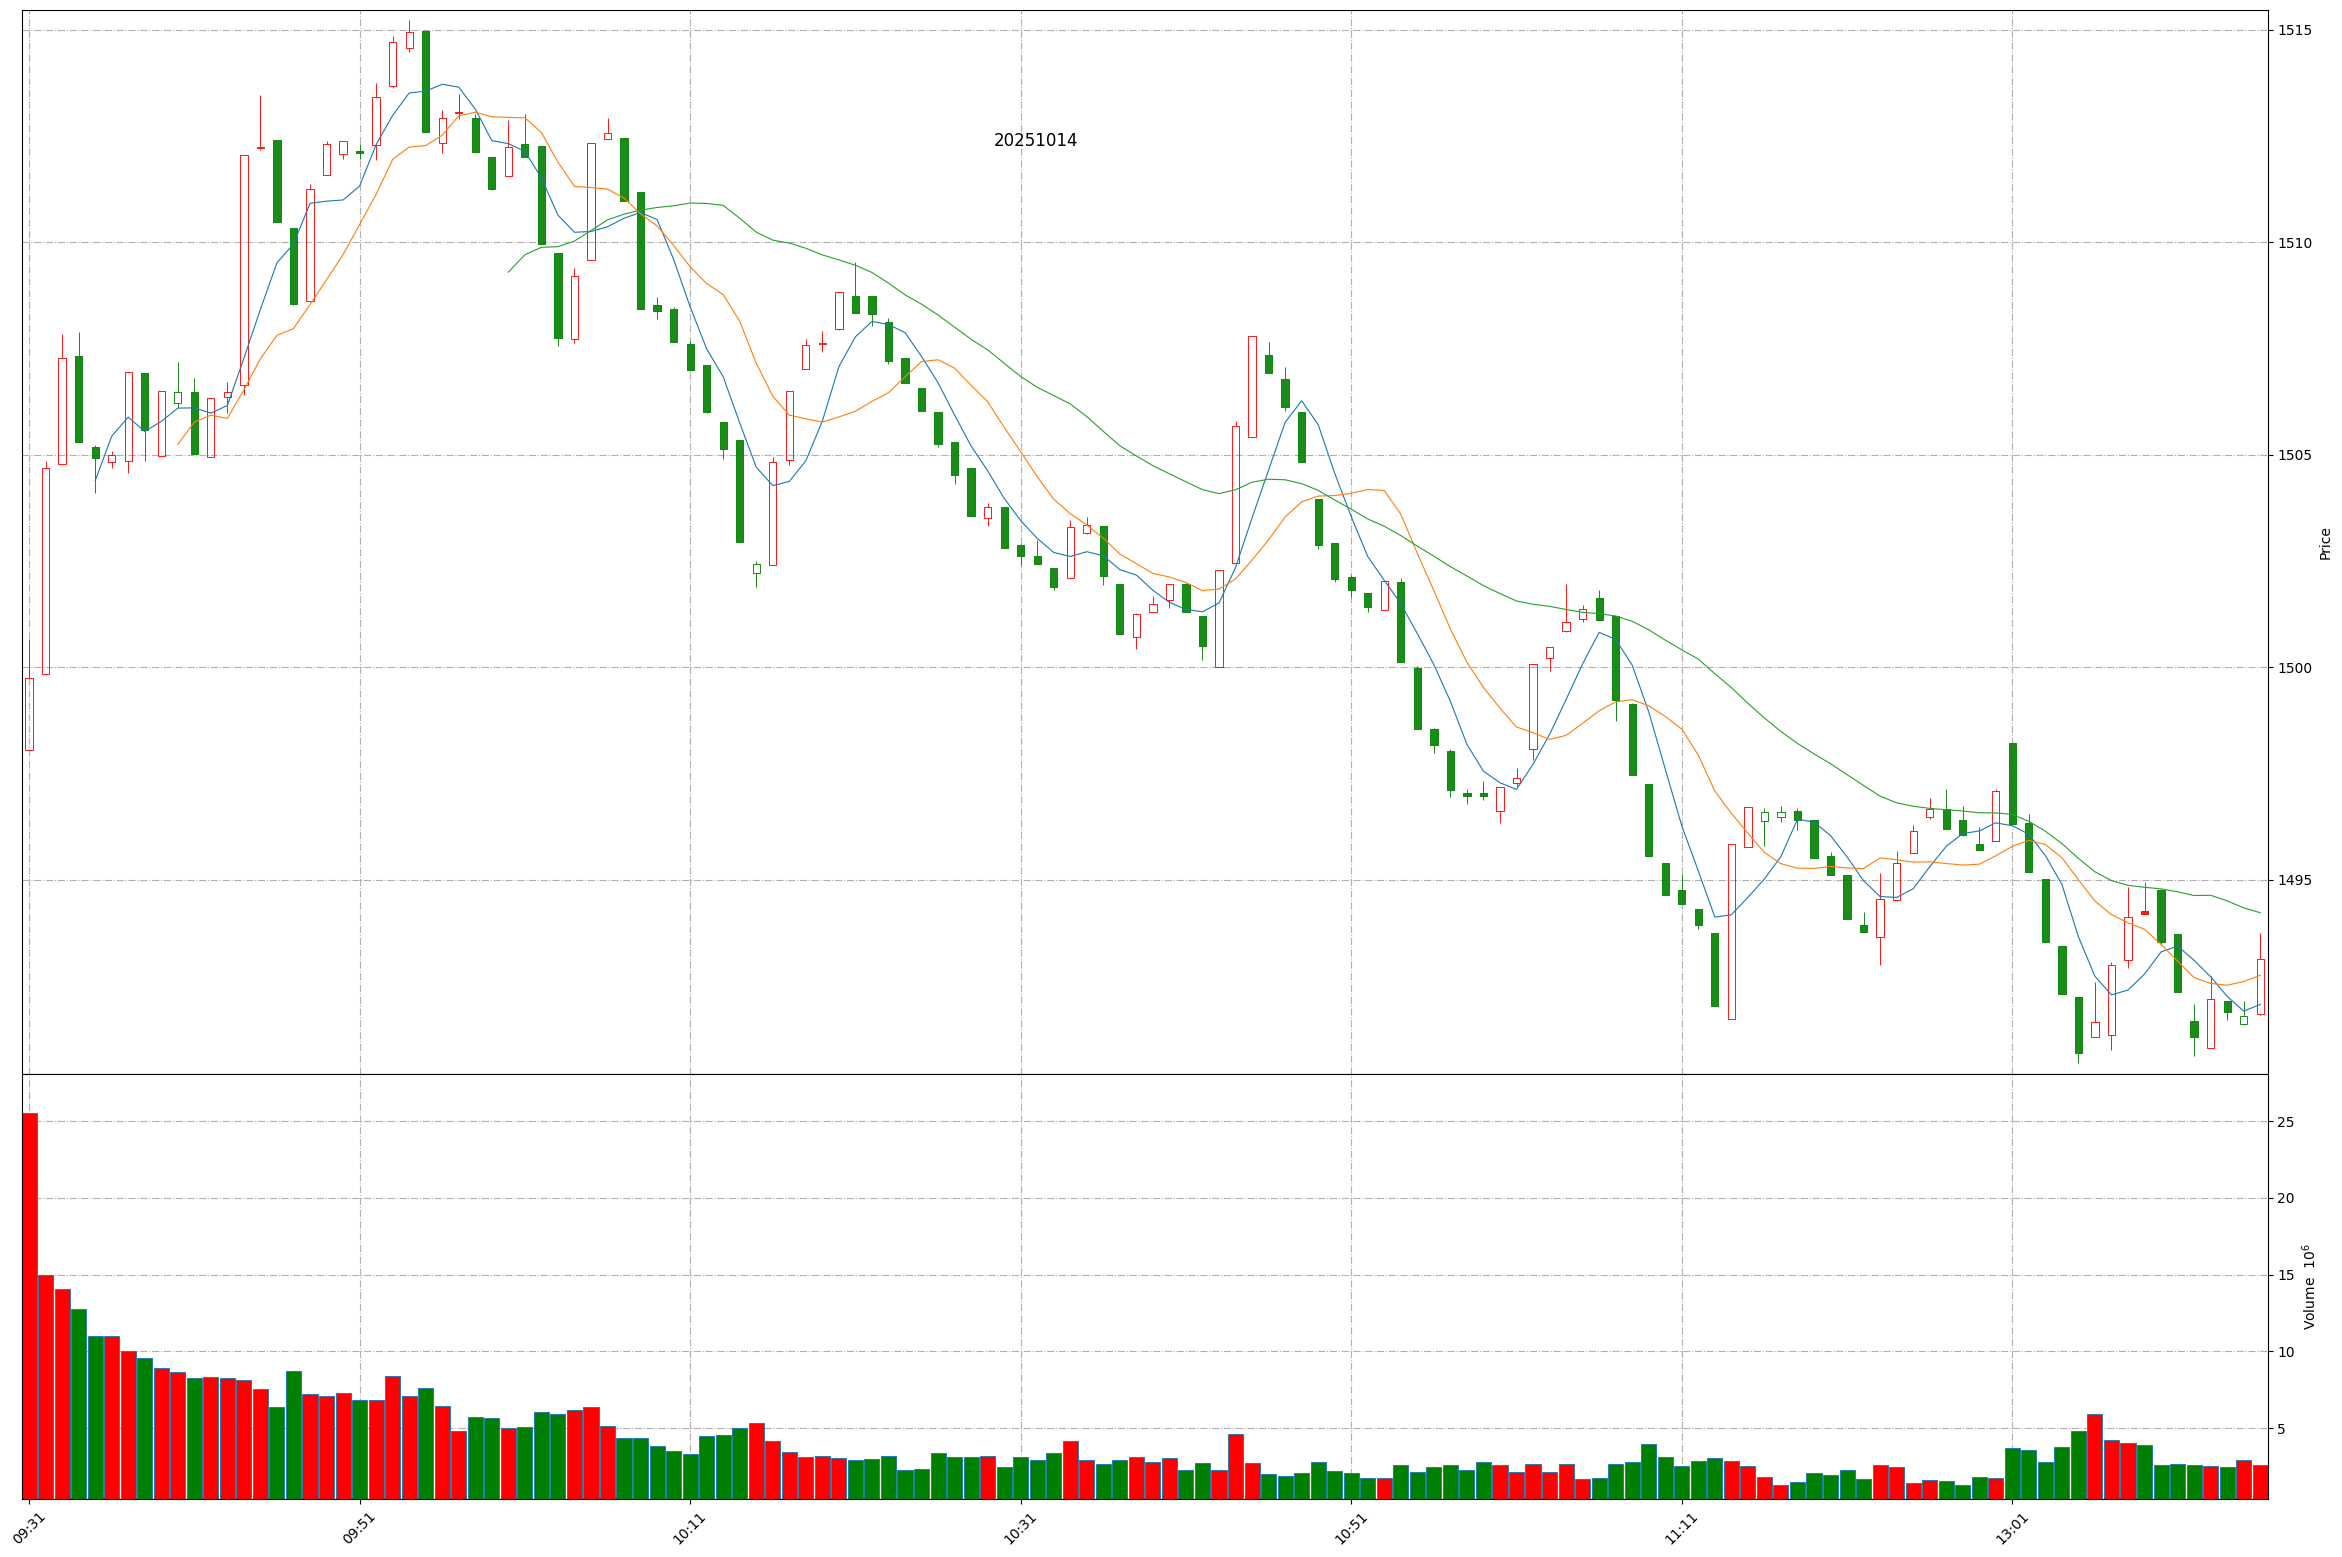
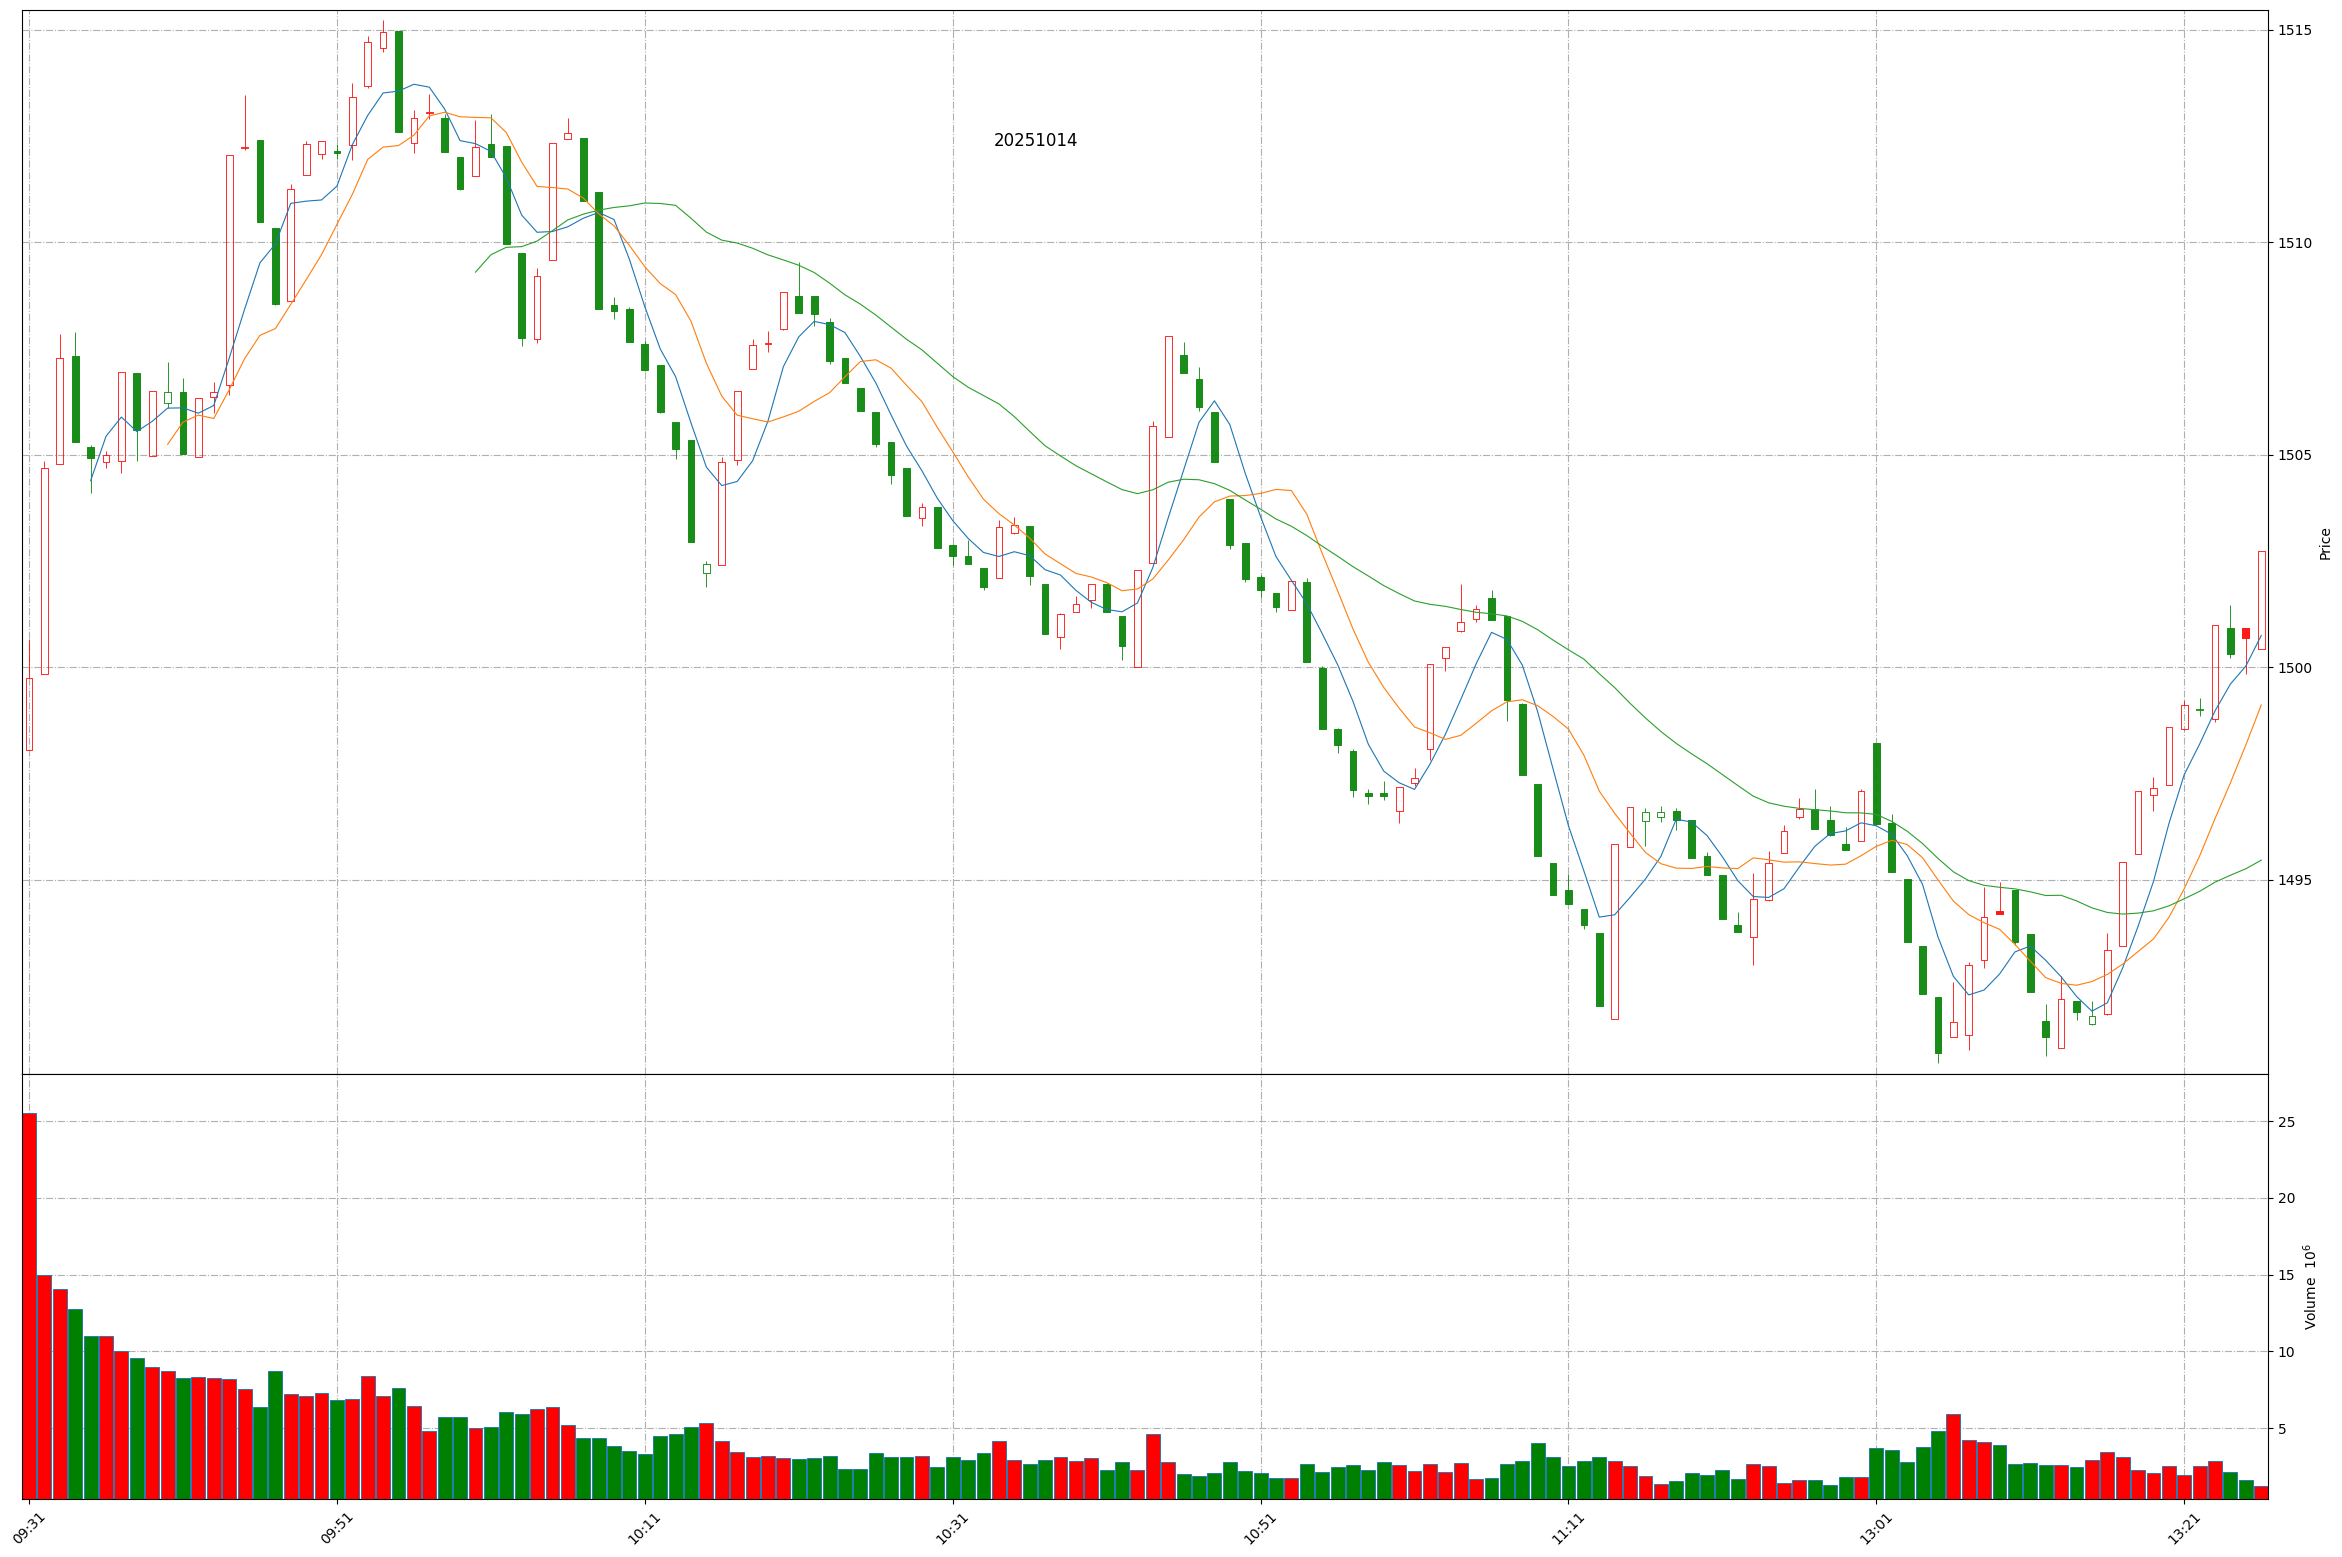
Github action update at 2025-10-14 13:26:02.

diff --git a/README.md b/README.md
@@ -1,11 +1,11 @@
 
 # Daily-A-share-market-quotes 每日 A 股指数（5min 更新）- 20251014
 
-### 上证指数 20251014 13:15
+### 上证指数 20251014 13:26
 ![](./fig/2025/10/20251014-sh000001.png)
 
-### 深证成指 20251014 13:15
+### 深证成指 20251014 13:26
 ![](./fig/2025/10/20251014-sz399001.png)
 
-### 北证50 20251014 13:15
+### 北证50 20251014 13:26
 ![](./fig/2025/10/20251014-bj899050.png)
